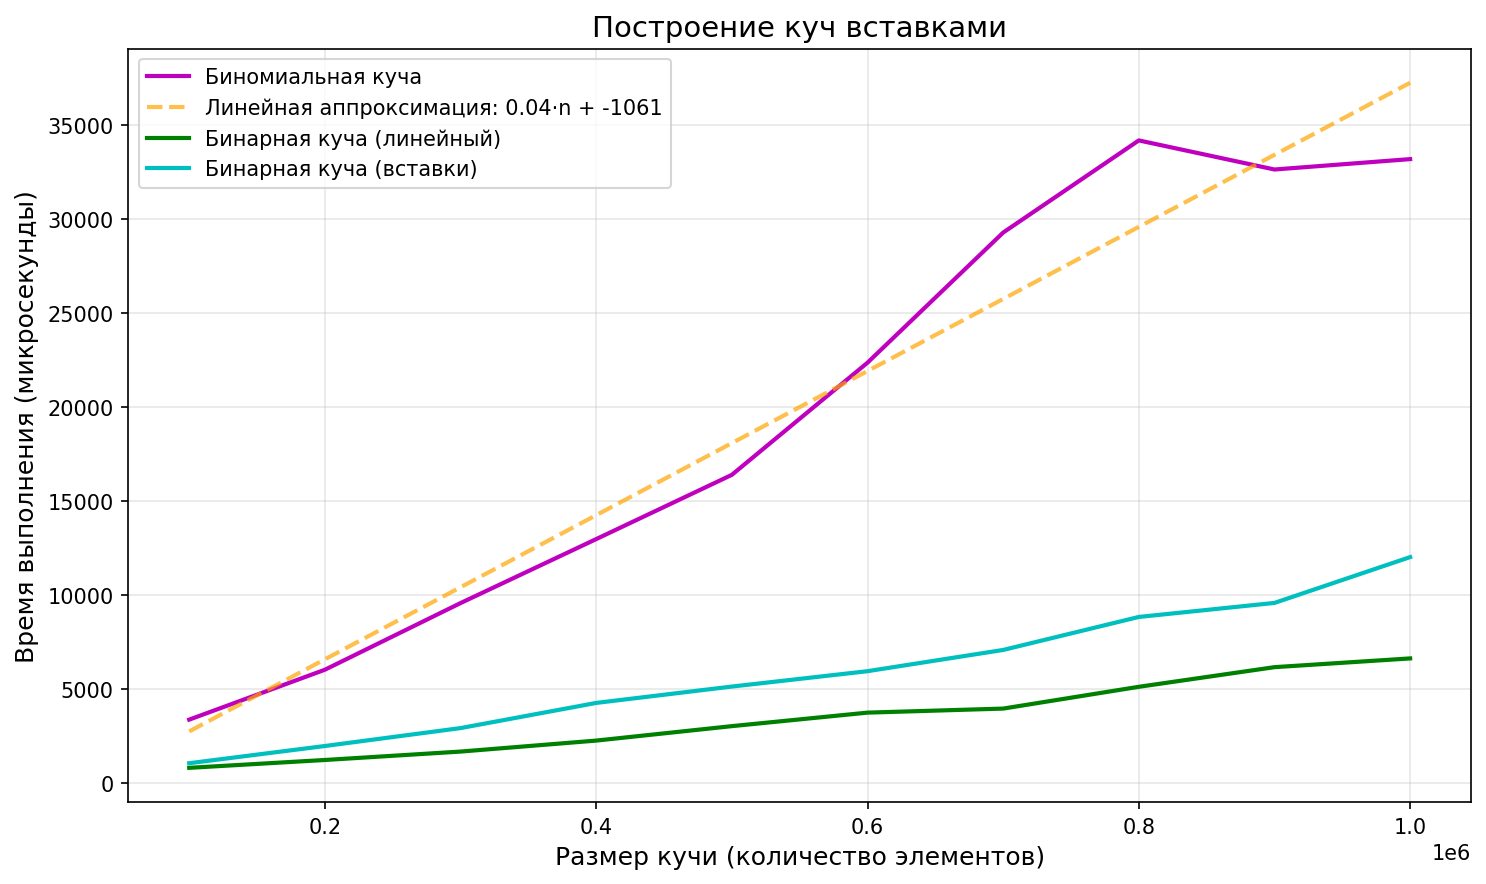
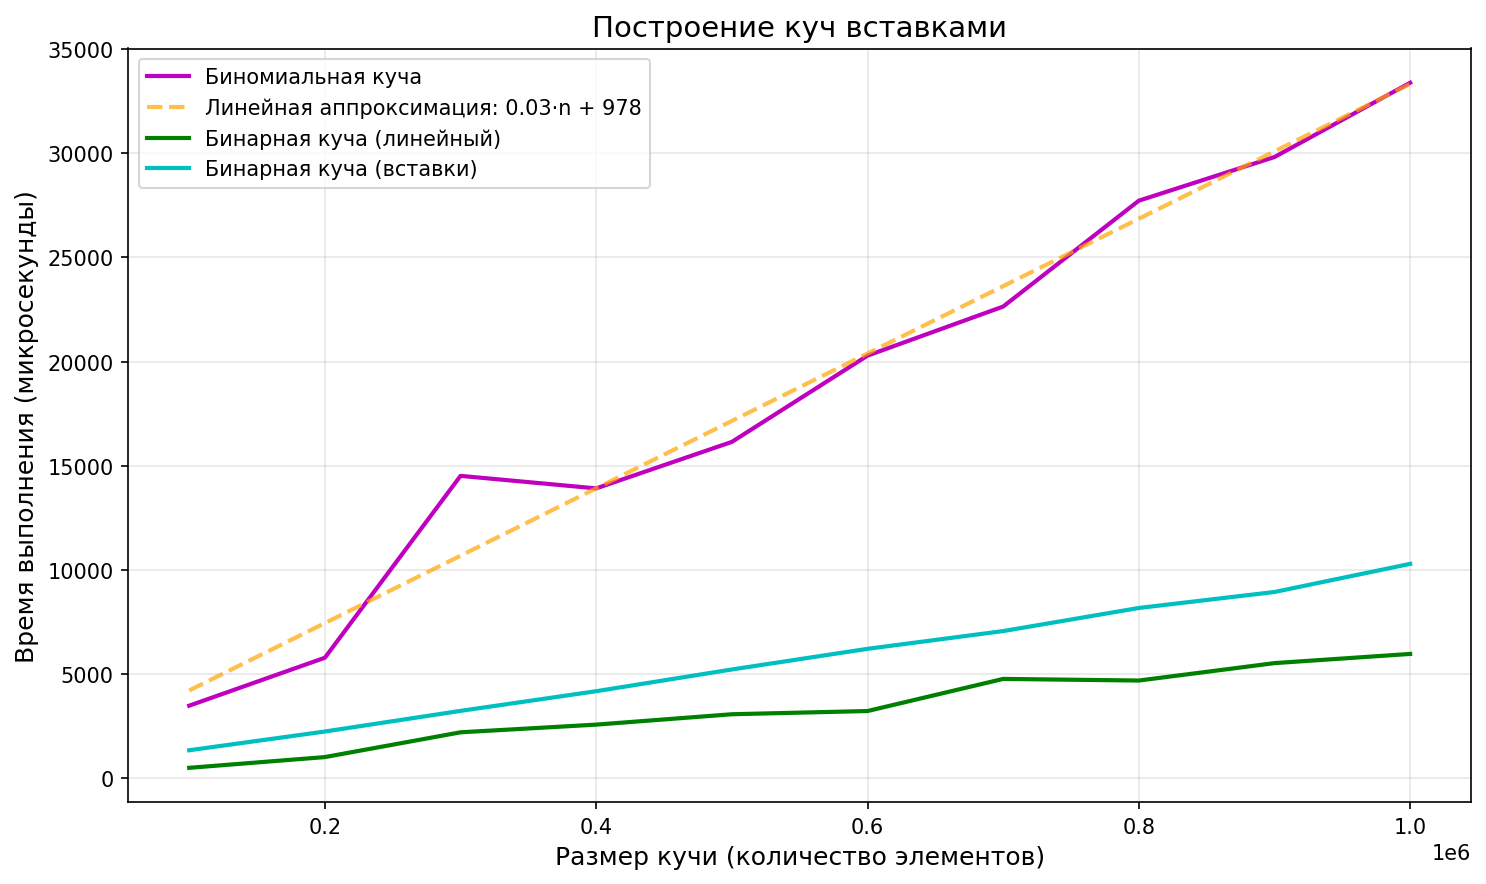
Second try to fix binomial heap (stopping when merges are not needed)

diff --git a/src/binomial_heap.c b/src/binomial_heap.c
@@ -134,33 +134,36 @@ static Node* binomial_heap_fix_heap(Node* head)
     
     while (next)
     {
-        if (curr->degree != next->degree ||
-            (next->sibling && next->sibling->degree == curr->degree))
+        if (curr->degree != next->degree)
+        {
+            break;
+        }
+        
+        if (next->sibling && next->sibling->degree == curr->degree)
         {
             prev = curr;
             curr = next;
             next = curr->sibling;
+            continue;
+        }
+        
+        if (curr->key <= next->key)
+        {
+            curr->sibling = next->sibling;
+            curr = binomial_heap_merge_trees(curr, next);
         }
         else
         {
-            if (curr->key <= next->key)
+            if (prev)
             {
-                curr->sibling = next->sibling;
-                curr = binomial_heap_merge_trees(curr, next);
+                prev->sibling = next;
             }
             else
             {
-                if (prev)
-                {
-                    prev->sibling = next;
-                }
-                else
-                {
-                    head = next;
-                }
-                next = binomial_heap_merge_trees(next, curr);
-                curr = next;
+                head = next;
             }
+            next = binomial_heap_merge_trees(next, curr);
+            curr = next;
         }
         next = curr->sibling;
     }
